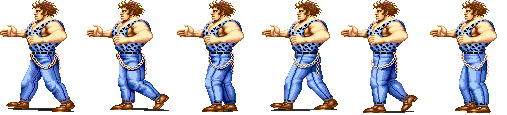
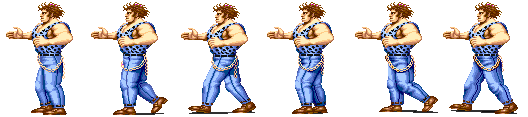
Tweaked andore walk sprites

diff --git a/BeatEmUp/BeatEmUp/source/Enemy.cpp b/BeatEmUp/BeatEmUp/source/Enemy.cpp
@@ -286,8 +286,7 @@ void Enemy::OnPatrol()
 		if(distanceToPlayer <= vision) {
 			state = ES_Chasing;
 		}
-	}
-
+	}	
 	//logPrintf("dist %f", patrolVecX)
 	if(patrolVecX >= patrolRange) Walk(Left), patrolVecX = 0;
 	else if(patrolVecX < -patrolRange) Walk(Right), patrolVecX = 0;
@@ -302,20 +301,38 @@ void Enemy::OnChase()
 	float distX = position.x - GAME.player->Position().x;
 	float distY = position.bottom() - (GAME.player->Position().bottom() - 10);
 
-	if(GAME.player->GetState() != Player::PS_Jumping)
-	{
+	if(GAME.player->GetState() != Player::PS_Jumping) {
 		if(distY > MinDistY) yVel = -speedY;
 		else if(distY < -MinDistY) yVel = speedY;
 	}
-	else { yVel = 0.0f; }
+	else { 
+		yVel = 0.0f;
+	}
 
-	if(distX > MinDistX)
-	{
+	#pragma region Teleporting enemy
+	//teleport
+	//if(distX <= 3 * MinDistX)
+	//{
+	//	Enemy* neighbour = GetNearestNeighbour< Enemy >(GAME.enemies);
+	//	if(neighbour && neighbour->IsAttackable()) 
+	//	{
+	//		if(WHEEL_OF_FORTUNE.TakeAChance())
+	//		{
+	//			if(GAME.player->Position().x <= position.x)
+	//				position.x += -200;
+	//			else
+	//				position.x += 200;
+	//		}
+	//	}
+	//}
+#pragma endregion
+
+
+	if(distX > MinDistX) {
 		Walk(Left);
 		xVel = -speedX;
 	}
-	else if(distX < -MinDistX)
-	{
+	else if(distX < -MinDistX) {
 		Walk(Right);
 		xVel = speedX;
 	}
@@ -323,15 +340,14 @@ void Enemy::OnChase()
 	//When close enough, attack
 	if(SDL_abs((int)distX) <= (int)(position.left() 
 		< GAME.player->Position().left()? 2*MinDistX: MinDistX) 
-		&& SDL_abs((int)distY) <= (int)MinDistY)
+		&& SDL_abs((int)distY) <= (int)MinDistY) 
 	{
 		Stop();
 		Directions myOpposite = GetDirection()==Left? Right: Left;
 		if(!GAME.player->IsPunching(myOpposite) && !GAME.player->IsKicking(myOpposite))
 			Attack();
 		
-		if(GAME.player->IsDead())
-		{
+		if(GAME.player->IsDead()) {
 			state = ES_Patrolling;
 			current = GetDirection() == Right? walkRight: walkLeft;
 		}
@@ -396,7 +412,7 @@ Andore::Andore(SDL_Renderer* const renderer_, float posX, float posY)
 	: Enemy(renderer_, 
 		Sprite::FromFile("resources/andore_idleleft.png", renderer_, 84, 115, 10, 0),
 		Sprite::FromFile("resources/andore_idleright.png", renderer_, 88, 117, 10, 0), 
-		Sprite::FromFile("resources/andore_walkleft.png", renderer_, 84, 115, 10, 5),
+		Sprite::FromFile("resources/andore_walkleft.png", renderer_, 88, 117, 10, 0, true),
 		Sprite::FromFile("resources/andore_walkright.png", renderer_, 88, 117, 10, 5), 
 		Sprite::FromFile("resources/andore_punchleft.png", renderer_, 115, 112, 10, 1),
 		Sprite::FromFile("resources/andore_punchright.png", renderer_, 115, 112, 10, 1), 

diff --git a/BeatEmUp/BeatEmUp/source/Game.cpp b/BeatEmUp/BeatEmUp/source/Game.cpp
@@ -52,7 +52,7 @@ bool Game::Init()
 	//enemies.push_back(new Andore(renderer_, 1200, 450));
 	//enemies.push_back(new Andore(renderer_, 2400, 450));
 	//enemies.push_back(new Joker(renderer_, 1000, 400));
-	enemies.push_back(new Axl(renderer_, 800, 400));
+	//enemies.push_back(new Axl(renderer_, 800, 400));
 	enemies.push_back(new Andore(renderer_, 700, 380));	
 	//enemies.push_back(new Joker(renderer_, -100, 400));
 	//enemies.push_back(new Axl(renderer_, -200, 500));
@@ -70,8 +70,8 @@ bool Game::Init()
 	gameObjects.push_back(tbPlayerPos);
 	gameObjects.push_back(tbEnemyPos);
 	gameObjects.push_back(player);
-	gameObjects.push_back(skaterboy);
-	gameObjects.push_back(knight1);
+	//gameObjects.push_back(skaterboy);
+	//gameObjects.push_back(knight1);
 	for(unsigned int i = 0; i < enemies.size(); ++i)
 		gameObjects.push_back(enemies[i]);
 	gameObjects.push_back(new Rock("resources/rock.png", renderer_));

diff --git a/BeatEmUp/BeatEmUp/include/GameObject.h b/BeatEmUp/BeatEmUp/include/GameObject.h
@@ -74,6 +74,25 @@ public:
 		, const int penThresholdY = 25, const int penThresholdZ = 25) const;
 	void AdjustZToGameDepth();
 
+	
+	template<class T>
+	T* GetNearestNeighbour(const vector<T*>& gameObjects) const
+	{
+		for(unsigned int i = 0; i < gameObjects.size(); ++i)
+		{
+			if( gameObjects[i] != this &&
+				(position.right() >= gameObjects[i]->position.left()) &&
+				(position.left() <= gameObjects[i]->position.right())
+			)
+			{
+				//logPrintf("%s: %s in range", this->GetName().c_str(), gameObjects[i]->GetName().c_str());
+				return gameObjects[i];
+			}
+		}
+
+		return nullptr;
+	}
+
 
 	//Functor for sorting Game objects by depth (z axis)
 	//Used for painting

diff --git a/BeatEmUp/BeatEmUp/include/Enemy.h b/BeatEmUp/BeatEmUp/include/Enemy.h
@@ -112,6 +112,13 @@ protected:
 	const float MinDistX;
 	const float MinDistY;
 
+	//Chasing - alternate path info
+	struct Path
+	{
+		float destX, destY;
+
+	} alt_path;
+
 
 	//jumping
 	enum JumpState

diff --git a/BeatEmUp/BeatEmUp/source/GameObject.cpp b/BeatEmUp/BeatEmUp/source/GameObject.cpp
@@ -27,7 +27,6 @@ void GameObject::AdjustZToGameDepth()
 }
 
 
-
 void GameObjectList::Update()
 {
 	//Garbage collect dead objects (except Player - special case)
